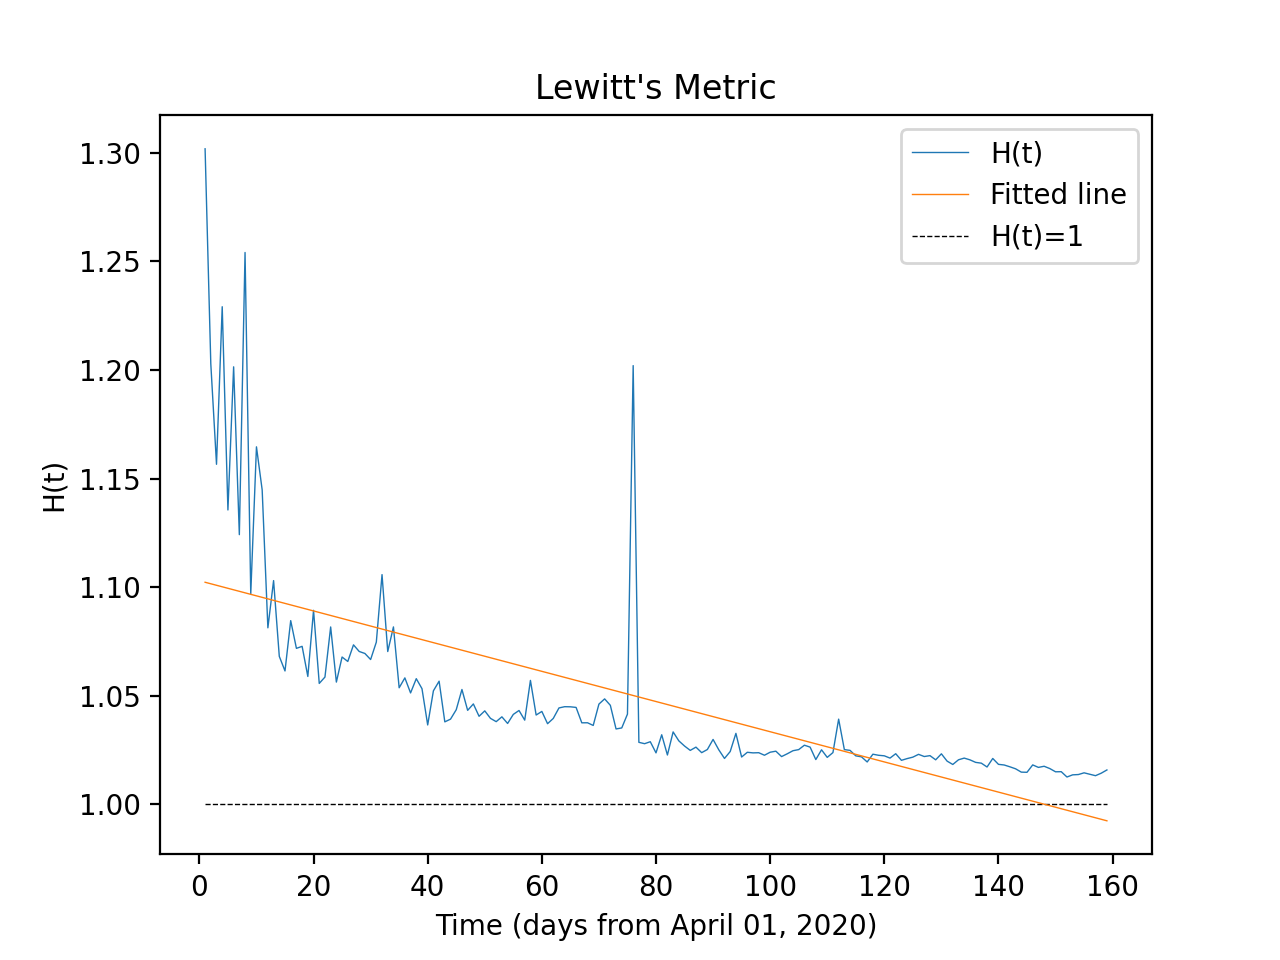
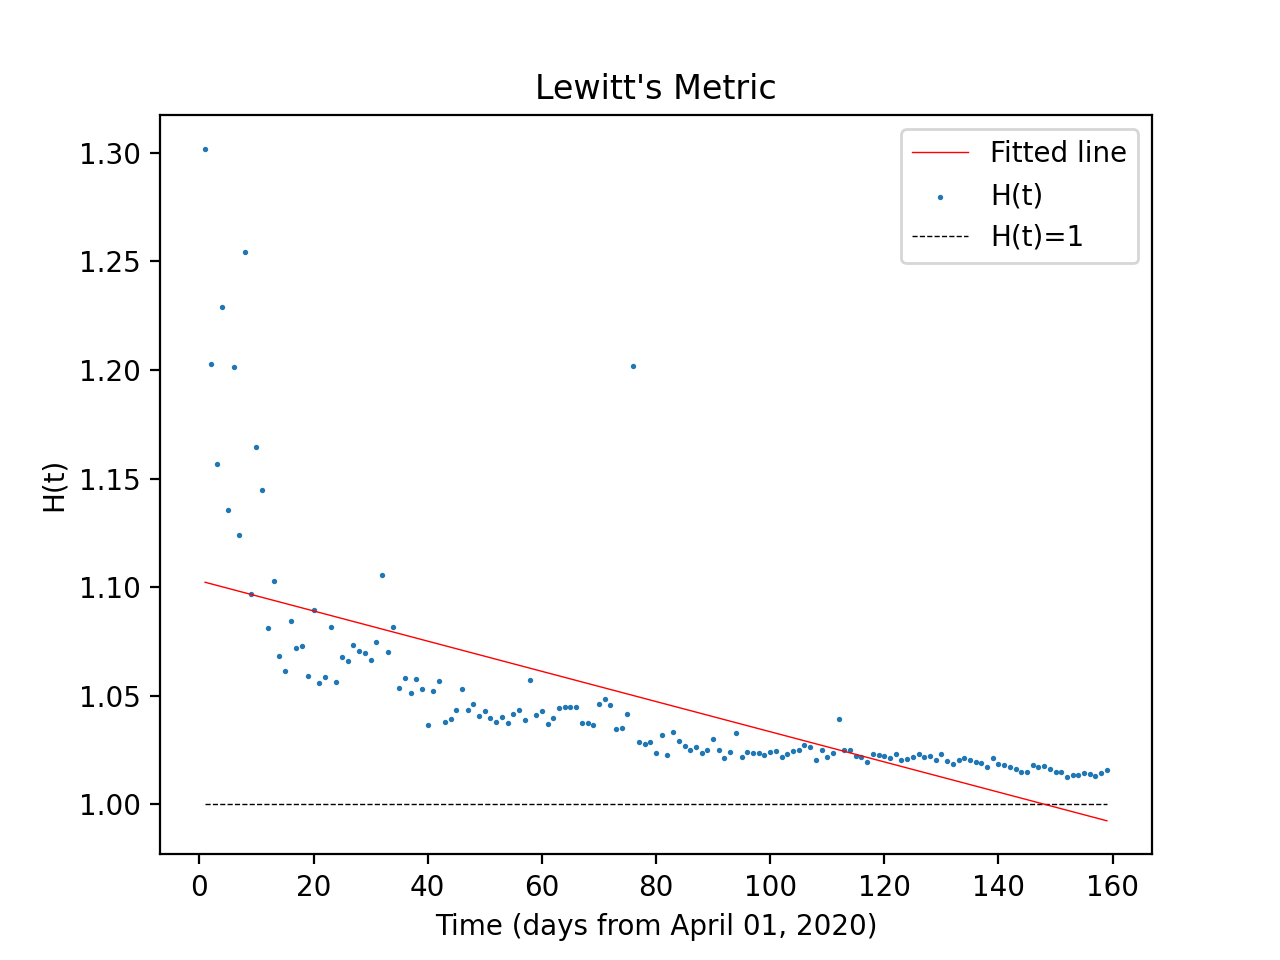
Updated H(t) plot with a scatterplot

diff --git a/Task-5/task5.py b/Task-5/task5.py
@@ -50,8 +50,8 @@ days_from_start = round((1 - c)/m) # y_hat = 1 at the end
 print(days_from_start)
 
 # Plotting
-plt.plot(t, H, linewidth=0.5, label="H(t)")
-plt.plot(t, y_hat, linewidth=0.5, label="Fitted line")
+plt.scatter(t, H, s=0.85, label="H(t)")
+plt.plot(t, y_hat, 'r', linewidth=0.5, label="Fitted line")
 plt.hlines(1, t[0], t[-1], colors='black', linestyles='--', linewidth=0.5, label="H(t)=1")
 plt.xlabel("Time (days from April 01, 2020)")
 plt.ylabel("H(t)")
